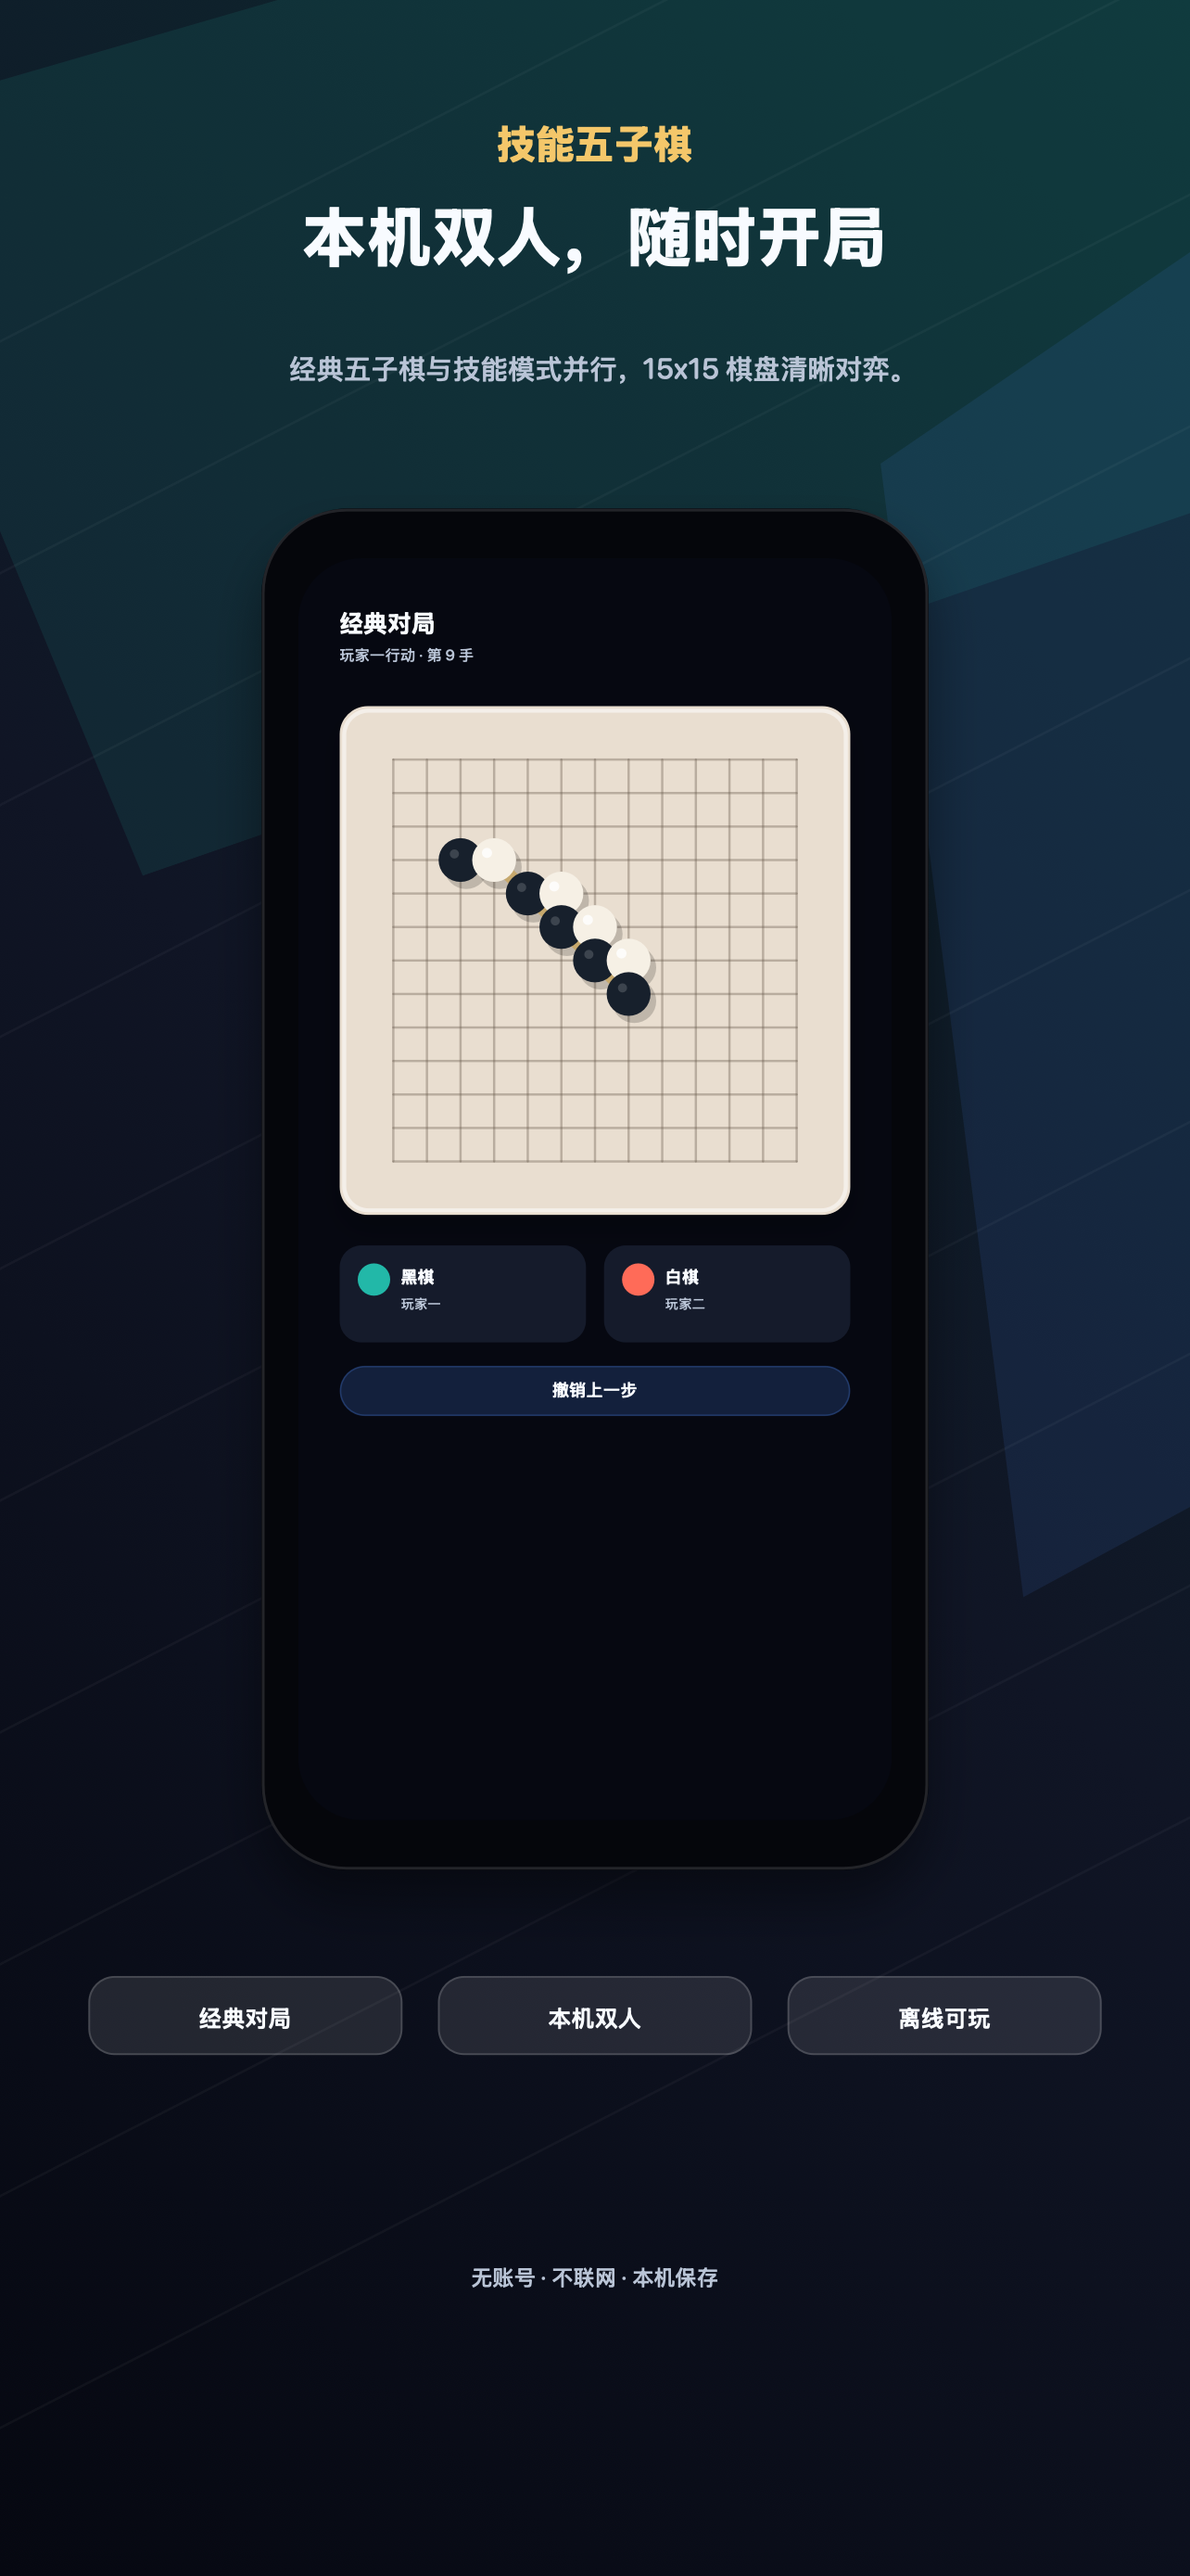
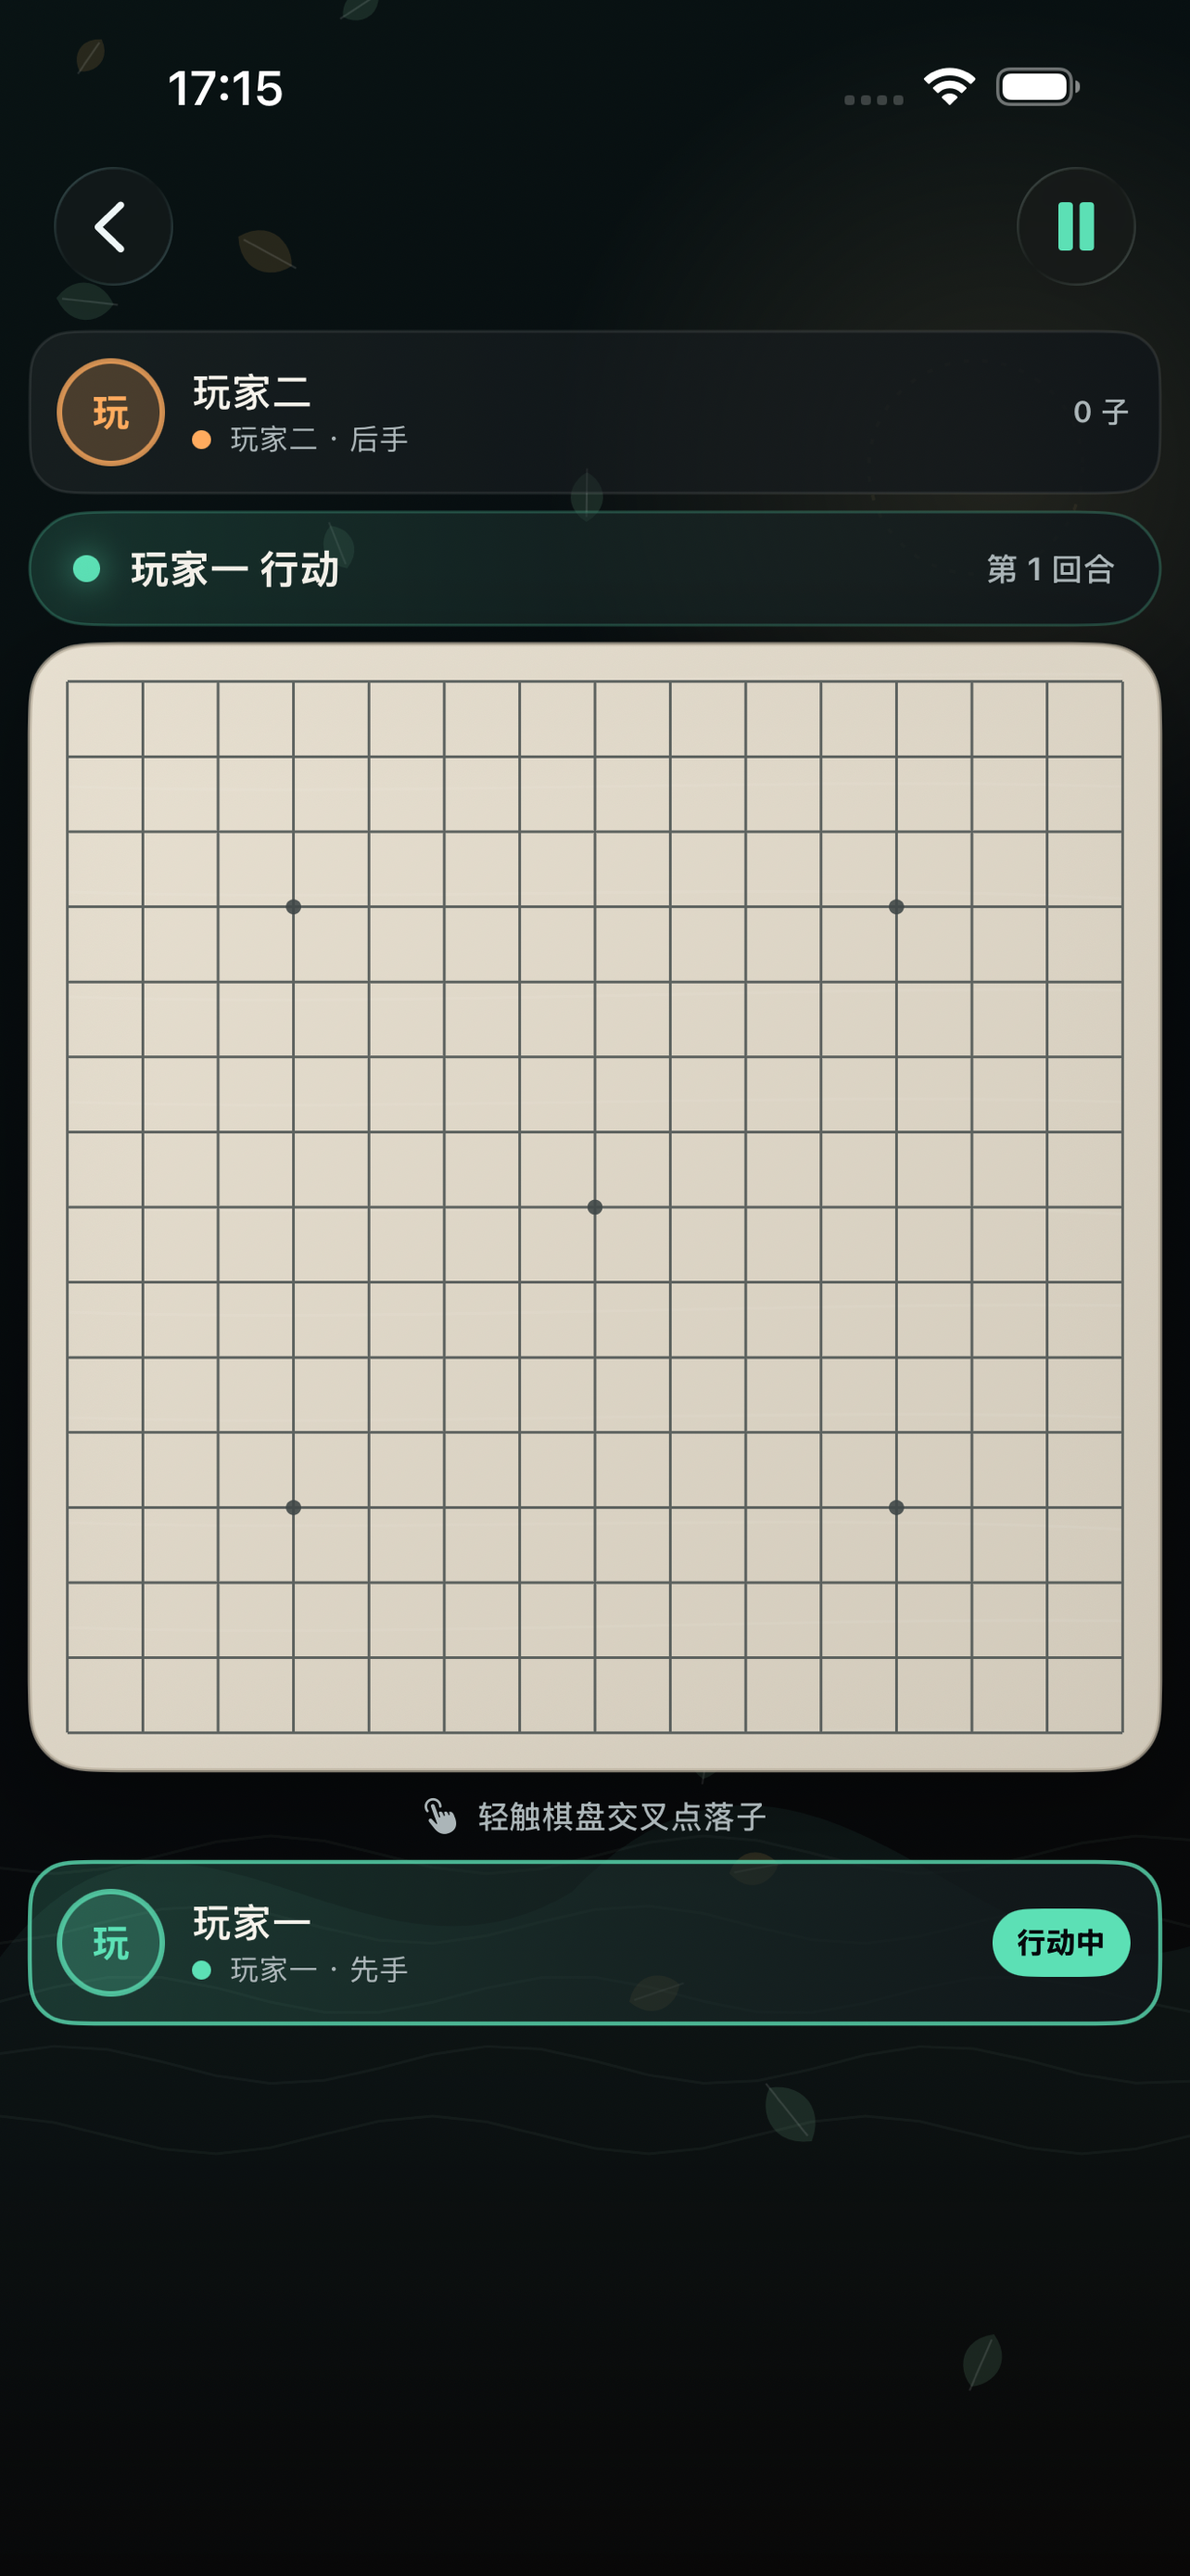
chore: prepare App Store build 5

diff --git a/SkillGomokuUITests/SkillGomokuUITests.swift b/SkillGomokuUITests/SkillGomokuUITests.swift
@@ -12,6 +12,12 @@ final class SkillGomokuUITests: XCTestCase {
         app.buttons["玩家档案"].tap()
 
         XCTAssertTrue(app.navigationBars["玩家档案"].waitForExistence(timeout: 5))
+
+        let profilesScreenshot = XCTAttachment(screenshot: XCUIScreen.main.screenshot())
+        profilesScreenshot.name = "Player-profiles-modern-list"
+        profilesScreenshot.lifetime = .keepAlways
+        add(profilesScreenshot)
+
         app.buttons["新建玩家"].tap()
 
         XCTAssertTrue(app.navigationBars["新建玩家"].waitForExistence(timeout: 5))

diff --git a/AppStoreAssets/README.md b/AppStoreAssets/README.md
@@ -1,24 +1,22 @@
 # App Store Assets
 
-Generated by `Tools/GenerateMarketingAssets.swift`.
+The screenshots in this folder are captured from the shipping 1.1 app through UI tests. They show the real interface rendered by the Release candidate rather than generated mockups.
+
+`Tools/GenerateMarketingAssets.swift` is retained only as a legacy reference and must not be used to replace the 1.1 screenshots or app icon.
 
 ## Outputs
 
 - `app-icon/app-icon-1024.png`: 1024 x 1024, no alpha, App Store icon preview
 - `iphone-6.5/01-core-gameplay.png`: 1284 x 2778, portrait, no alpha
 - `iphone-6.5/02-skill-mode.png`: 1284 x 2778, portrait, no alpha
-- `iphone-6.5/03-player-profiles.png`: 1284 x 2778, portrait, no alpha
+- `iphone-6.5/03-match-setup.png`: 1284 x 2778, portrait, no alpha
 - `iphone-6.9/01-core-gameplay.png`: 1320 x 2868, portrait, no alpha
 - `iphone-6.9/02-skill-mode.png`: 1320 x 2868, portrait, no alpha
-- `iphone-6.9/03-player-profiles.png`: 1320 x 2868, portrait, no alpha
+- `iphone-6.9/03-match-setup.png`: 1320 x 2868, portrait, no alpha
 - `ipad-13/01-core-gameplay.png`: 2064 x 2752, portrait, no alpha
 - `ipad-13/02-skill-mode.png`: 2064 x 2752, portrait, no alpha
-- `ipad-13/03-player-profiles.png`: 2064 x 2752, portrait, no alpha
+- `ipad-13/03-match-setup.png`: 2064 x 2752, portrait, no alpha
 
-These match accepted App Store Connect screenshot dimensions for modern iPhone and 13-inch iPad uploads. Re-run the generator after visual copy or palette changes:
-
-```sh
-swift Tools/GenerateMarketingAssets.swift
-```
+The three screenshots cover classic gameplay and turn indication, both players' visible skill decks, and the redesigned skill-match setup screen. They match accepted App Store Connect screenshot dimensions for modern iPhone and 13-inch iPad uploads.
 
 Reference: https://developer.apple.com/help/app-store-connect/reference/app-information/screenshot-specifications/

diff --git a/AppStoreSubmission/metadata.zh-Hans.md b/AppStoreSubmission/metadata.zh-Hans.md
@@ -8,8 +8,8 @@
 - 年龄分级建议：4+
 - 价格建议：免费
 - Bundle ID：`com.chengyang.SkillGomoku`
-- 版本号：`1.0`
-- 构建号：`1`
+- 版本号：`1.1`
+- 构建号：`5`
 
 ## 宣传文本
 
@@ -46,15 +46,15 @@
 - iPhone 6.5 英寸：
   - `AppStoreAssets/iphone-6.5/01-core-gameplay.png`
   - `AppStoreAssets/iphone-6.5/02-skill-mode.png`
-  - `AppStoreAssets/iphone-6.5/03-player-profiles.png`
+  - `AppStoreAssets/iphone-6.5/03-match-setup.png`
 - iPhone 6.9 英寸：
   - `AppStoreAssets/iphone-6.9/01-core-gameplay.png`
   - `AppStoreAssets/iphone-6.9/02-skill-mode.png`
-  - `AppStoreAssets/iphone-6.9/03-player-profiles.png`
+  - `AppStoreAssets/iphone-6.9/03-match-setup.png`
 - iPad 13 英寸：
   - `AppStoreAssets/ipad-13/01-core-gameplay.png`
   - `AppStoreAssets/ipad-13/02-skill-mode.png`
-  - `AppStoreAssets/ipad-13/03-player-profiles.png`
+  - `AppStoreAssets/ipad-13/03-match-setup.png`
 
 ## App Privacy 建议
 
